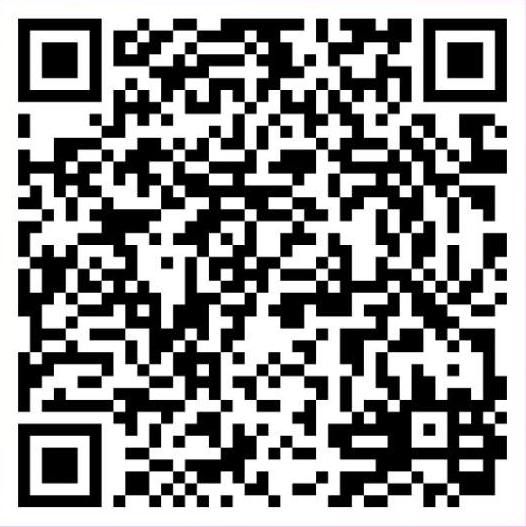
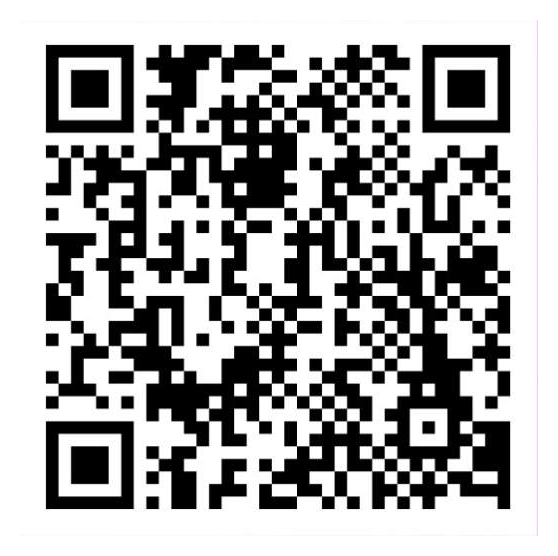
Thay mã QR ủng hộ bằng mã không cố định số tiền
Claude-Session: https://claude.ai/code/session_01MhCC29Be7ZUcigZEWkVijT

diff --git a/docs/FDROID.md b/docs/FDROID.md
@@ -22,4 +22,4 @@ Trạng thái: mã nguồn đã sẵn sàng; còn các bước dưới đây do 
 - **Gradle:** repo chưa có `gradlew`; `gradle/wrapper/gradle-wrapper.properties` chỉ rõ Gradle 8.7 (AGP 8.5.2 cần ≥ 8.7). F-Droid tự dùng bản Gradle phù hợp. Nếu họ yêu cầu wrapper, chạy `gradle wrapper --gradle-version 8.7` trên máy có mạng rồi commit `gradlew`, `gradlew.bat`, `gradle-wrapper.jar`.
 - **Dựng lại được (reproducible):** chưa kiểm tra. Có thể thêm sau, không bắt buộc để vào F-Droid.
 - **Dữ liệu bên ngoài:** `app/src/main/assets/` (phông chữ, ảnh QR) và `data/` (thư viện từ khóa → hình) đều nằm trong repo; ảnh QR ủng hộ là của chủ dự án.
-- **Link ủng hộ:** màn Ủng hộ hiện chỉ có ảnh QR cố định 50.000 ₫. F-Droid cho phép link `Donate:`/`Liberapay` trong metadata nếu bạn có.
+- **Link ủng hộ:** màn Ủng hộ hiện chỉ có ảnh QR chuyển khoản (không cố định số tiền), chưa có link. F-Droid cho phép link `Donate:`/`Liberapay` trong metadata nếu bạn có.
